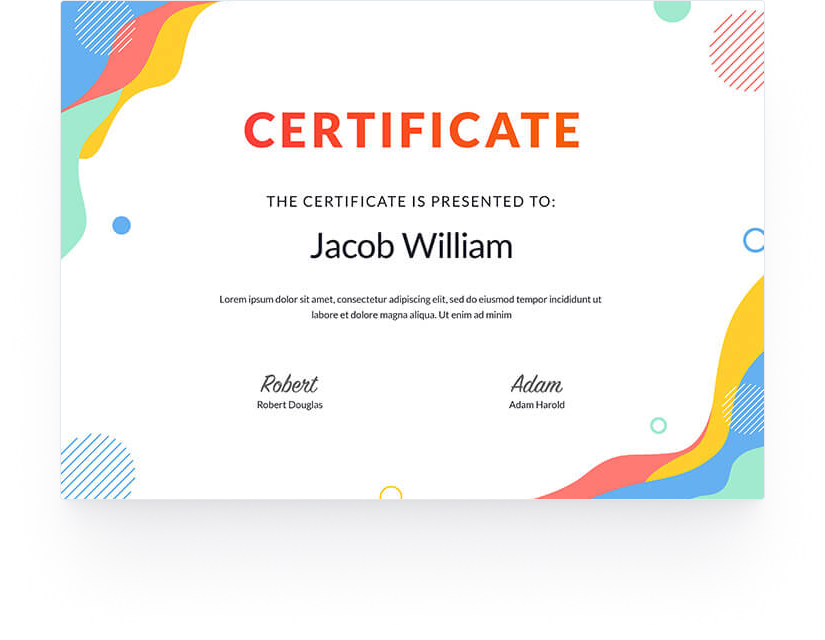
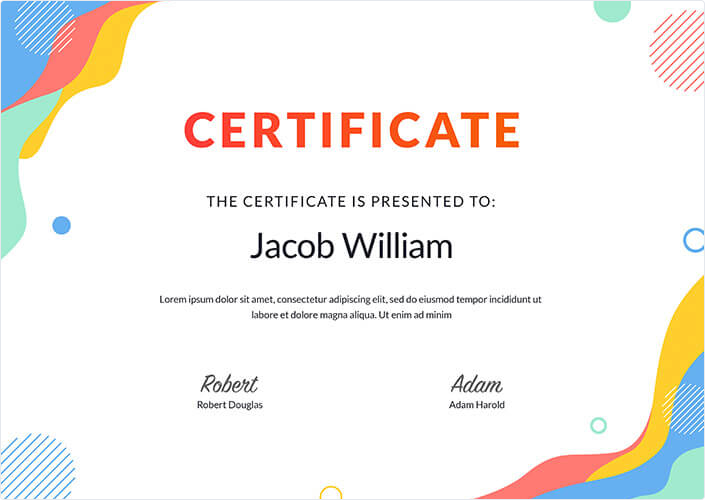
Add files via upload

diff --git a/docs/index.html b/docs/index.html
@@ -96,7 +96,7 @@
         </div>
     </header>
     <main class="main">
-      <section class="about">
+      <section class="main__about about">
         <div class="conteiner">
           <div class="about__inner">
             <div class="about__createx">
@@ -142,7 +142,7 @@
           </div>
         </div>
       </section>
-      <section class="directions">
+      <section class="main__directions directions">
         <div class="conteiner">
           <div class="directions__inner">
             <div class="directions__heading heading heading--text-center">
@@ -236,6 +236,33 @@
                   <span> New studying program coming soon...</span>
                 </li>
               </ul>
+            </div>
+          </div>
+        </div>
+      </section>
+      <section class="main__sert sert">
+        <div class="conteiner">
+          <div class="cert__inner">
+            <div class="cert__content">
+              <div class="cert__heading heading">
+                <p class="heading__subtitle">Createx Certificate</p>
+                <h2 class="heading__title">Your expertise will be confirmed</h2>
+              </div>
+              <p class="cert__text">We are accredited by international professional organizations and institutes:</p>
+              <ul class="sert__logos">
+                <li class="sert__logos-item">
+                  <img src="./img/logos/1.svg" alt="">
+                </li>
+                <li class="sert__logos-item">
+                  <img src="./img/logos/2.svg" alt="">
+                </li>
+                <li class="sert__logos-item">
+                  <img src="./img/logos/3.svg" alt="">
+                </li>
+              </ul>
+            </div>
+            <div class="cert__image-box">
+              <img src="./img/certificate.jpg" alt="Sertificate">
             </div>
           </div>
         </div>

diff --git a/docs/css/style.css b/docs/css/style.css
@@ -15,6 +15,18 @@ html, body{
   height: 100%;
 }
 
+.main__about{
+  padding: 180px 0 16 0px;
+}
+
+.main__directions{
+  padding-bottom: 180px;
+}
+
+.main__sert{
+  margin-bottom: 46px;
+}
+
 .button{
   display: inline-block;
   font-weight: 700;
@@ -249,9 +261,6 @@ html, body{
 
 /* ---ABOUT------------------------------------------ */
 
-.about{
-  padding: 160px 0 160px;
-}
 
 .about__createx{
   display: flex;
@@ -351,9 +360,6 @@ line-height: 160%;
 
 /* --- DIRECTIONS------------------------------------------ */
 
-.directions{
-  padding-bottom: 180px;
-}
 
 .directions__inner{
   position: relative;
@@ -524,3 +530,52 @@ line-height: 160%;
 .directions__list-item--development .directions__link-tag{
   background-color: #7772F1;;
 }
+
+/* --- SERTIFICATE------------------------------------------ */
+
+.cert__inner{
+  display: flex;
+  justify-content: space-between;
+  position: relative;
+}
+
+.cert__inner::before{
+  content: "";
+  position: absolute;
+  top: -15px;
+  left: -120px; 
+  width: 60px;
+  height: 60px; 
+  background: url(../img/decor/decor_sert.svg) 0 0 no-repeat;
+}
+
+.cert__content{
+  margin-right: 30px;
+  max-width: 400px;
+}
+
+.cert__heading{
+  margin-bottom: 50px;
+}
+
+.cert__text{
+  margin-bottom: 30px;
+  line-height: 160%;
+}
+
+.sert__logos{
+  display: flex;
+}
+
+.sert__logos-item{
+  margin-right: 40px;
+}
+
+.sert__logos-item:last-child{
+  margin-right: 0;
+}
+
+.cert__image-box{
+  box-shadow: 0px 80px 80px -20px rgba(154, 156, 165, 0.16), 0px 30px 24px -10px rgba(154, 156, 165, 0.1), 0px 12px 10px -6px rgba(154, 156, 165, 0.08), 0px 4px 4px -4px rgba(30, 33, 44, 0.05);
+}
+
